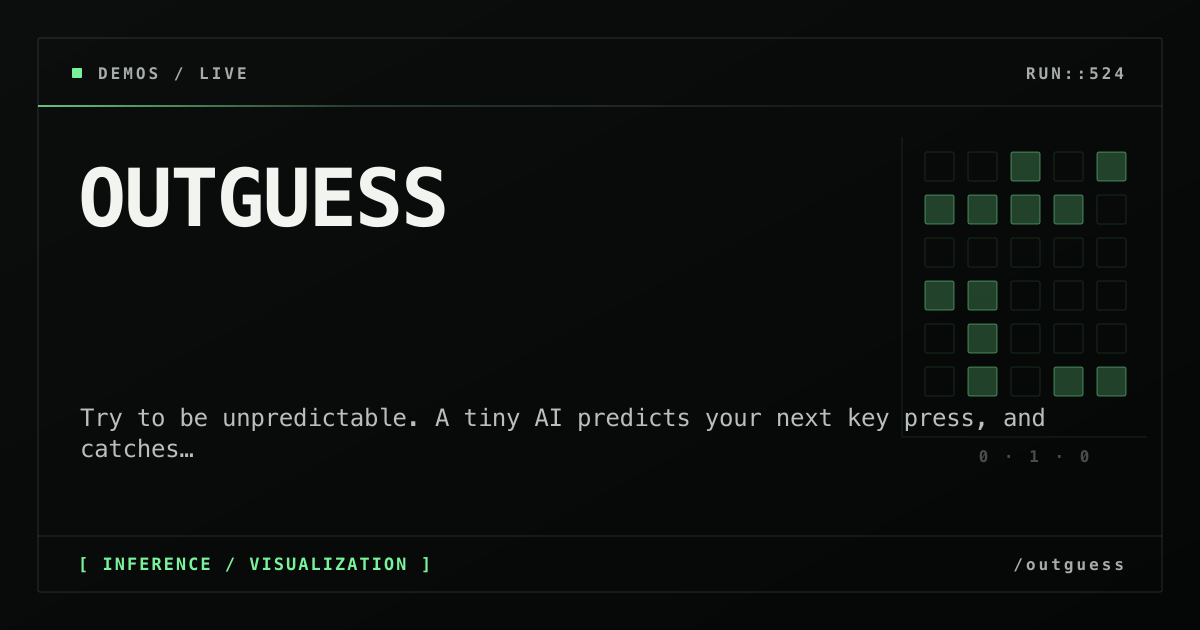
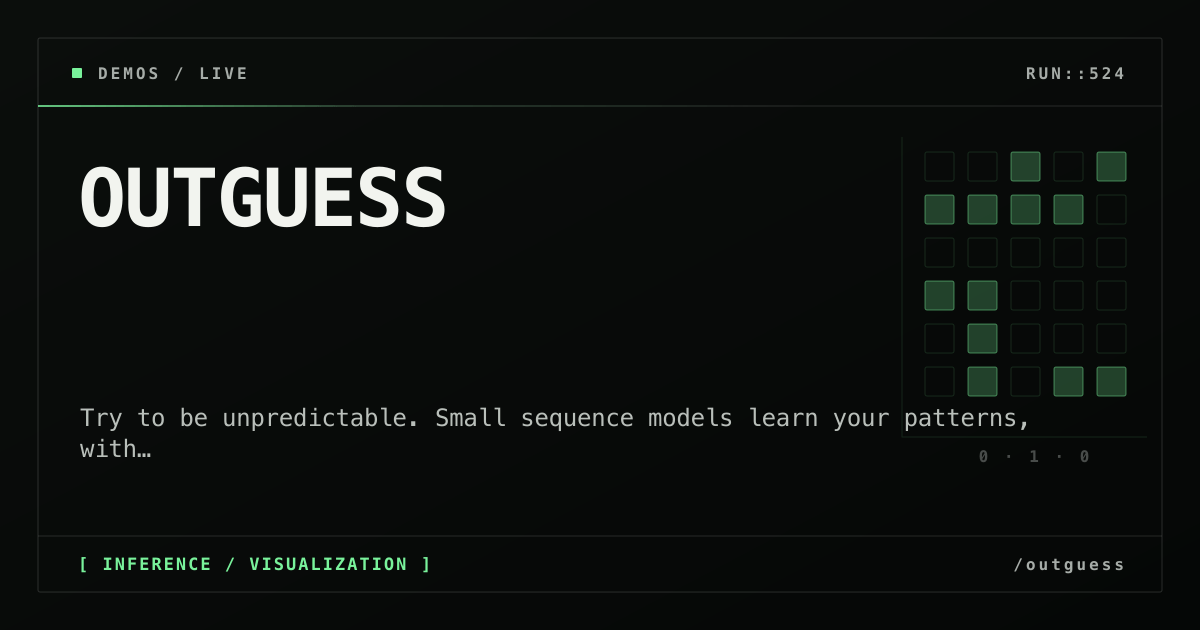
Integrate improved labs, refresh previews, and enforce release verification

Changed region(s): [[0.37, 0.6333, 0.74, 0.6937], [0.7708, 0.6333, 0.8633, 0.6937], [0.0617, 0.6937, 0.1542, 0.7238]]

diff --git a/src/app/pulse-board/polling.ts b/src/app/pulse-board/polling.ts
@@ -5,28 +5,46 @@ import { useEffect } from "react";
 const cooldowns = new Map<string, { until: number; failures: number }>();
 
 /** Public endpoints share bounded backoff, including HTTP Retry-After. */
-export async function fetchPublic(url: string, init?: RequestInit): Promise<Response> {
+export async function fetchPublic(
+  url: string,
+  init?: RequestInit,
+): Promise<Response> {
   const previous = cooldowns.get(url);
-  if (previous && previous.until > Date.now()) throw new Error("Source is cooling down; retrying later.");
+  if (previous && previous.until > Date.now())
+    throw new Error("Source is cooling down; retrying later.");
   try {
     const response = await fetch(url, init);
     if (response.status === 429 || response.status >= 500) {
       const failures = (previous?.failures ?? 0) + 1;
       const value = response.headers.get("Retry-After");
-      const retryAfter = value === null ? 0 : /^\d+(\.\d+)?$/.test(value) ? Number(value) * 1000 : Math.max(0, Date.parse(value) - Date.now());
-      const delay = Math.max(Number.isFinite(retryAfter) ? retryAfter : 0, Math.min(900_000, 30_000 * 2 ** Math.min(failures - 1, 5)));
+      const retryAfter =
+        value === null
+          ? 0
+          : /^\d+(\.\d+)?$/.test(value)
+            ? Number(value) * 1000
+            : Math.max(0, Date.parse(value) - Date.now());
+      const delay = Math.max(
+        Number.isFinite(retryAfter) ? retryAfter : 0,
+        Math.min(900_000, 30_000 * 2 ** Math.min(failures - 1, 5)),
+      );
       cooldowns.set(url, { until: Date.now() + delay, failures });
-      throw new Error(`Source returned ${response.status}; retrying after ${Math.ceil(delay / 1000)} seconds.`);
+      throw new Error(
+        `Source returned ${response.status}; retrying after ${Math.ceil(delay / 1000)} seconds.`,
+      );
     }
     cooldowns.delete(url);
     return response;
   } catch (error) {
-    if (!init?.signal?.aborted && !cooldowns.has(url)) cooldowns.set(url, { until: Date.now() + 30_000, failures: 1 });
+    if (!init?.signal?.aborted && !cooldowns.has(url))
+      cooldowns.set(url, { until: Date.now() + 30_000, failures: 1 });
     throw error;
   }
 }
 
-export function useVisiblePolling(task: (signal: AbortSignal) => Promise<void>, interval: number): void {
+export function useVisiblePolling(
+  task: (signal: AbortSignal) => Promise<void>,
+  interval: number,
+): void {
   useEffect(() => {
     let disposed = false;
     let timer: ReturnType<typeof setTimeout>;
@@ -35,9 +53,11 @@ export function useVisiblePolling(task: (signal: AbortSignal) => Promise<void>, 
       if (disposed || document.hidden) return;
       const request = new AbortController();
       controller = request;
-      try { await task(request.signal); }
-      finally {
-        if (!disposed && !request.signal.aborted && !document.hidden) timer = setTimeout(run, interval);
+      try {
+        await task(request.signal);
+      } finally {
+        if (!disposed && !request.signal.aborted && !document.hidden)
+          timer = setTimeout(run, interval);
       }
     };
     const visibility = () => {
@@ -47,6 +67,11 @@ export function useVisiblePolling(task: (signal: AbortSignal) => Promise<void>, 
     };
     timer = setTimeout(run, 0);
     document.addEventListener("visibilitychange", visibility);
-    return () => { disposed = true; clearTimeout(timer); controller?.abort(); document.removeEventListener("visibilitychange", visibility); };
+    return () => {
+      disposed = true;
+      clearTimeout(timer);
+      controller?.abort();
+      document.removeEventListener("visibilitychange", visibility);
+    };
   }, [task, interval]);
 }

diff --git a/src/app/emergence/components/SimulationFrame.tsx b/src/app/emergence/components/SimulationFrame.tsx
@@ -1,6 +1,14 @@
 "use client";
 
-import { createContext, useContext, useEffect, useMemo, useRef, useState, type ReactNode } from "react";
+import {
+  createContext,
+  useContext,
+  useEffect,
+  useMemo,
+  useRef,
+  useState,
+  type ReactNode,
+} from "react";
 import { createSeededRandom } from "@/lib/random";
 import { Button } from "@/components/ui";
 
@@ -8,7 +16,10 @@ const SimulationContext = createContext({ active: true, seed: 42 });
 
 export function useSimulation() {
   const context = useContext(SimulationContext);
-  const random = useMemo(() => createSeededRandom(context.seed), [context.seed]);
+  const random = useMemo(
+    () => createSeededRandom(context.seed),
+    [context.seed],
+  );
   return { ...context, random };
 }
 
@@ -27,15 +38,38 @@ export default function SimulationFrame({ children }: { children: ReactNode }) {
     if (root.current) observer.observe(root.current);
     const visibility = () => setForeground(!document.hidden);
     document.addEventListener("visibilitychange", visibility);
-    return () => { observer.disconnect(); document.removeEventListener("visibilitychange", visibility); };
+    return () => {
+      observer.disconnect();
+      document.removeEventListener("visibilitychange", visibility);
+    };
   }, []);
-  return <div ref={root} className="min-h-80">
-    <div className="mb-5 flex flex-wrap items-center gap-2 text-xs">
-      <span className="font-mono">Seed {seed}</span>
-      <Button size="sm" onClick={() => setReplay((value) => value + 1)}>Replay seed</Button>
-      <Button size="sm" onClick={() => setSeed((value) => value + 1)}>New seed</Button>
-      <span className="text-neutral-500">Replay restores this seed and default controls. Offscreen simulations pause.</span>
+  return (
+    <div ref={root} className="min-h-80">
+      <div className="mb-5 flex flex-wrap items-center gap-2 text-xs">
+        <span className="font-mono">Seed {seed}</span>
+        <Button size="sm" onClick={() => setReplay((value) => value + 1)}>
+          Replay seed
+        </Button>
+        <Button size="sm" onClick={() => setSeed((value) => value + 1)}>
+          New seed
+        </Button>
+        <span className="text-neutral-500">
+          Replay restores this seed and default controls. Offscreen simulations
+          pause.
+        </span>
+      </div>
+      {started ? (
+        <SimulationContext.Provider
+          key={`${seed}-${replay}`}
+          value={{ seed, active: visible && foreground }}
+        >
+          {children}
+        </SimulationContext.Provider>
+      ) : (
+        <p className="text-sm text-neutral-500">
+          Simulation initializes when this section enters the viewport.
+        </p>
+      )}
     </div>
-    {started ? <SimulationContext.Provider key={`${seed}-${replay}`} value={{ seed, active: visible && foreground }}>{children}</SimulationContext.Provider> : <p className="text-sm text-neutral-500">Simulation initializes when this section enters the viewport.</p>}
-  </div>;
+  );
 }

diff --git a/src/app/curve-fitter/page.tsx b/src/app/curve-fitter/page.tsx
@@ -301,7 +301,7 @@ function DecisionMap({
           return <rect key={`${cell.row}-${cell.column}`} x={svg((cell.column / 26) * 100)} y={svg((cell.row / 26) * 100)} width={svg(100 / 26 + 0.05)} height={svg(100 / 26 + 0.05)} fill={cyan ? "#22d3ee" : "#f59e0b"} opacity={svg(0.16 + Math.abs(cell.probability - 0.5) * 0.55)} />;
         })}
         {points.map((point, index) => (
-          <circle key={index} cx={svg((point.x + 1) * 50)} cy={svg((1 - point.y) * 50)} r="1.25" fill={point.label === 1 ? "#67e8f9" : "#fcd34d"} stroke="#0c1117" strokeWidth="0.6" />
+          <circle key={index} cx={svg((point.x + 1) * 50)} cy={svg((1 - point.y) * 50)} r={index % 5 === 0 ? "1.7" : "1.25"} fill={index % 5 === 0 ? "none" : point.label === 1 ? "#67e8f9" : "#fcd34d"} stroke={index % 5 === 0 ? "#f8fafc" : "#0c1117"} strokeWidth="0.6" />
         ))}
       </svg>
     </div>
@@ -515,7 +515,7 @@ export default function CurveFitterPage() {
               <p className="max-w-3xl text-sm leading-relaxed text-neutral-600 dark:text-neutral-400">
                 {classificationKind === "xor" ? "XOR needs two diagonal islands. A stack of linear layers still collapses to one straight cut, but several tanh gates can carve separate islands." : classificationKind === "circles" ? "The inner class needs a boundary that wraps around it. A line cannot close that loop, while tanh gates can combine into one." : "This is the control case: a straight boundary is enough, so the extra flexibility should not be necessary."}
               </p>
-              <div className="border border-[var(--line)] p-3 text-sm">Every fifth point is held out of training ({classificationTrain.length} train / {classificationTest.length} test). Full-model test accuracy: linear {(classificationAccuracy(linearNetwork, classificationTest) * 100).toFixed(1)}% · tanh {(classificationAccuracy(nonlinearNetwork, classificationTest) * 100).toFixed(1)}%. Scores below are training accuracy.</div>
+              <div className="border border-[var(--line)] p-3 text-sm">Outlined points are held out; filled points are used for training ({classificationTrain.length} train / {classificationTest.length} test). Full-model test accuracy: linear {(classificationAccuracy(linearNetwork, classificationTest) * 100).toFixed(1)}% · tanh {(classificationAccuracy(nonlinearNetwork, classificationTest) * 100).toFixed(1)}%. Scores below are training accuracy.</div>
               <EpochScrubber
                 label="Shared training progress, reset to replay from zero"
                 epoch={networkPlayback.epoch}

diff --git a/src/app/sentence-surgeon/spans.ts b/src/app/sentence-surgeon/spans.ts
@@ -1,22 +1,35 @@
-export interface TextSpan { start: number; end: number }
+export interface TextSpan {
+  start: number;
+  end: number;
+}
 
-const normalized = (text: string) => text.normalize("NFD").replace(/\p{M}/gu, "").toLowerCase();
+const normalized = (text: string) =>
+  text.normalize("NFD").replace(/\p{M}/gu, "").toLowerCase();
 
 /** Align uncased WordPieces to original UTF-16 spans; never guess an unknown token. */
-export function wordPieceSpans(text: string, tokens: readonly string[]): (TextSpan | null)[] {
+export function wordPieceSpans(
+  text: string,
+  tokens: readonly string[],
+): (TextSpan | null)[] {
   let plain = "";
   let offset = 0;
   const positions: TextSpan[] = [];
   for (const character of text) {
     const value = normalized(character);
-    for (let i = 0; i < value.length; i++) positions.push({ start: offset, end: offset + character.length });
-    if (!value && positions.length) positions[positions.length - 1].end = offset + character.length;
+    for (let i = 0; i < value.length; i++)
+      positions.push({ start: offset, end: offset + character.length });
+    if (!value && positions.length)
+      positions[positions.length - 1].end = offset + character.length;
     plain += value;
     offset += character.length;
   }
   let cursor = 0;
   return tokens.map((token) => {
-    if (token.startsWith("[")) return null;
+    // Without offsets, an unknown token makes subsequent alignment ambiguous.
+    if (token.startsWith("[")) {
+      cursor = plain.length;
+      return null;
+    }
     const value = normalized(token.replace(/^##/, ""));
     const start = plain.indexOf(value, cursor);
     if (!value || start < 0) return null;
@@ -25,6 +38,14 @@ export function wordPieceSpans(text: string, tokens: readonly string[]): (TextSp
   });
 }
 
-export function replaceSpan(text: string, span: TextSpan, replacement: string): string {
-  return text.slice(0, span.start) + replacement.replace(/^##/, "") + text.slice(span.end);
+export function replaceSpan(
+  text: string,
+  span: TextSpan,
+  replacement: string,
+): string {
+  return (
+    text.slice(0, span.start) +
+    replacement.replace(/^##/, "") +
+    text.slice(span.end)
+  );
 }

diff --git a/src/app/pulse-board/polling.test.tsx b/src/app/pulse-board/polling.test.tsx
@@ -2,7 +2,11 @@ import { act, renderHook } from "@testing-library/react";
 import { afterEach, expect, it, vi } from "vitest";
 import { fetchPublic, useVisiblePolling } from "./polling";
 
-afterEach(() => { vi.restoreAllMocks(); vi.unstubAllGlobals(); vi.useRealTimers(); });
+afterEach(() => {
+  vi.restoreAllMocks();
+  vi.unstubAllGlobals();
+  vi.useRealTimers();
+});
 
 it("pauses hidden polling, aborts its request, and resumes on visibility", async () => {
   vi.useFakeTimers();
@@ -24,12 +28,23 @@ it("pauses hidden polling, aborts its request, and resumes on visibility", async
 
 it("honors Retry-After instead of repeatedly hitting a rate-limited source", async () => {
   vi.useFakeTimers();
-  const fetch = vi.fn().mockResolvedValueOnce(new Response("", { status: 429, headers: { "Retry-After": "120" } })).mockResolvedValue(new Response("{}"));
+  const fetch = vi
+    .fn()
+    .mockResolvedValueOnce(
+      new Response("", { status: 429, headers: { "Retry-After": "120" } }),
+    )
+    .mockResolvedValue(new Response("{}"));
   vi.stubGlobal("fetch", fetch);
-  await expect(fetchPublic("https://example.test/polling-backoff")).rejects.toThrow("429");
+  await expect(
+    fetchPublic("https://example.test/polling-backoff"),
+  ).rejects.toThrow("429");
   await vi.advanceTimersByTimeAsync(60000);
-  await expect(fetchPublic("https://example.test/polling-backoff")).rejects.toThrow("cooling down");
+  await expect(
+    fetchPublic("https://example.test/polling-backoff"),
+  ).rejects.toThrow("cooling down");
   expect(fetch).toHaveBeenCalledOnce();
   await vi.advanceTimersByTimeAsync(60001);
-  await expect(fetchPublic("https://example.test/polling-backoff")).resolves.toHaveProperty("ok", true);
+  await expect(
+    fetchPublic("https://example.test/polling-backoff"),
+  ).resolves.toHaveProperty("ok", true);
 });

diff --git a/src/app/vision-anything/maps.test.ts b/src/app/vision-anything/maps.test.ts
@@ -2,9 +2,14 @@ import { expect, it } from "vitest";
 import { containedImageStyle, maskProbabilities } from "./maps";
 
 it("letterboxes masks exactly like the source image", () => {
-  for (const [aspect, expected] of [[2 / 3, [50, 100, 25, 0]], [8 / 3, [100, 50, 0, 25]]] as const) {
+  for (const [aspect, expected] of [
+    [2 / 3, [50, 100, 25, 0]],
+    [8 / 3, [100, 50, 0, 25]],
+  ] as const) {
     const style = containedImageStyle(aspect);
-    [style.width, style.height, style.left, style.top].forEach((value, index) => expect(parseFloat(value)).toBeCloseTo(expected[index]));
+    [style.width, style.height, style.left, style.top].forEach((value, index) =>
+      expect(parseFloat(value)).toBeCloseTo(expected[index]),
+    );
   }
 });
 

diff --git a/src/app/vision-anything/maps.ts b/src/app/vision-anything/maps.ts
@@ -1,8 +1,13 @@
 /** Placement of an object-contain image inside the demos' 4:3 viewport. */
 export function containedImageStyle(aspect: number) {
-  const width = Math.min(100, 100 * aspect / (4 / 3));
-  const height = Math.min(100, 100 * (4 / 3) / aspect);
-  return { width: `${width}%`, height: `${height}%`, left: `${(100 - width) / 2}%`, top: `${(100 - height) / 2}%` };
+  const width = Math.min(100, (100 * aspect) / (4 / 3));
+  const height = Math.min(100, (100 * (4 / 3)) / aspect);
+  return {
+    width: `${width}%`,
+    height: `${height}%`,
+    left: `${(100 - width) / 2}%`,
+    top: `${(100 - height) / 2}%`,
+  };
 }
 
 export function maskProbabilities(raw: Float32Array): Float32Array {

diff --git a/src/app/pulse-board/widgets.tsx b/src/app/pulse-board/widgets.tsx
@@ -649,6 +649,10 @@ function WeatherWidget() {
         onChange={(e) => {
           const city = CITIES.find((c) => c.name === e.target.value);
           if (city) {
+            weatherRequest.current++;
+            setWeather(null);
+            setLastFetched(null);
+            setLoading(true);
             setSelectedCity(city);
             localStorage.setItem("pulse-weather-city", city.name);
           }

diff --git a/src/app/rusen-gram/page.tsx b/src/app/rusen-gram/page.tsx
@@ -173,7 +173,7 @@ export default function RusenGram() {
         </DemoPanel>
         <DemoPanel title="Counts become probabilities">
           <div className="max-h-80 overflow-auto">
-            <table className="w-full text-left text-sm">
+            <table className="w-full text-left text-sm [&_th]:pr-3 [&_td]:pr-3">
               <thead>
                 <tr>
                   <th>Next token</th>

diff --git a/src/app/steering-llms/page.tsx b/src/app/steering-llms/page.tsx
@@ -271,6 +271,7 @@ export default function SteeringLab() {
         </p>
       )}
       <DemoFootnote>
+        The quantized model is approximately 85 MB, plus tokenizer files. {" "}
         First use downloads model files from Hugging Face; generation runs
         locally. Each condition starts with its own identically seeded sampler.
         There is no claimed general benchmark improvement.

diff --git a/src/app/steering-llms/model.ts b/src/app/steering-llms/model.ts
@@ -42,6 +42,7 @@ export async function loadSteeringModel(
   return pipeline("text-generation", MODEL_ID, {
     device,
     dtype: "q8",
+    model_file_name: "decoder_model_merged",
     revision: MODEL_REVISION,
     progress_callback: progress,
   });

diff --git a/PROJECTS.md b/PROJECTS.md
@@ -19,7 +19,7 @@ Edit `src/content/projects.json`, then run `npm run projects:docs`.
 | Pathfinding Showdown | `live` | `/pathfinding-showdown` | Step through every frontier decision as BFS, Dijkstra, greedy best-first, and A* search the same terrain. |
 | Pulse Board | `live` | `/pulse-board` | Live dashboard with real-time WebSocket crypto prices, Chainlink oracle, earthquakes, weather, and more. |
 | RL-Arena | `live` | `/adaptive-arena` | Fight trained bots in a full 30x30 tactical arena with checkpoint-based difficulties. |
-| Outguess | `live` | `/outguess` | Try to be unpredictable. A tiny AI predicts your next key press, and catches humans about 70% of the time. |
+| Outguess | `live` | `/outguess` | Try to be unpredictable. Small sequence models learn your patterns, with separate blind and hint-visible scores. |
 
 ## Nerdy Stuff
 
@@ -29,11 +29,11 @@ Edit `src/content/projects.json`, then run `npm run projects:docs`.
 | Game of Life | `live` | `/game-of-life` | The interactive cellular automata world that used to run as the site background, now as a standalone playground. |
 | Embedding Explorer | `live` | `/embedding-explorer` | Visualize how texts cluster in vector space using UMAP. See semantic similarity in action. |
 | Sentence Surgeon | `live` | `/sentence-surgeon` | Click any word to remove it. A small BERT predicts what should fill the gap, ranked with probabilities. Click a prediction to graft it in. |
-| Rusenizer | `live` | `/rusenizer` | My Turkish-optimized tokenizer. Compare with GPT-4 and see ~45% token savings on Turkish text. |
+| Rusenizer | `live` | `/rusenizer` | Compare a Turkish-focused tokenizer with cl100k_base, inspect byte boundaries, and reproduce the bundled example comparison. |
 | Fourier Sketch | `live` | `/fourier-sketch` | Draw a path, then watch rotating Fourier epicycles reconstruct it one harmonic at a time. |
 | Optimizer Racetrack | `live` | `/optimizer-racetrack` | Release SGD, Momentum, RMSProp, and Adam on the same loss landscape and watch their paths, wobbles, and failures diverge. |
-| Steering LLMs | `coming-soon` | `/steering-llms` | Probe whether concepts can be induced, strengthened, or redirected inside a model with steering and interpretability tools. |
-| RuseN-Gram | `coming-soon` | `/rusen-gram` | My personal N-Gram model. Old school meets new school language modeling. |
+| Steering LLMs | `live` | `/steering-llms` | Compare matched DistilGPT2 completions with explicit token-logit steering, fixed sampling settings, and a zero-strength control. |
+| RuseN-Gram | `live` | `/rusen-gram` | Build a word-level language model from an editable corpus. Inspect counts, suffix backoff, additive smoothing, and seeded generation. |
 
 ## Bulletin
 
